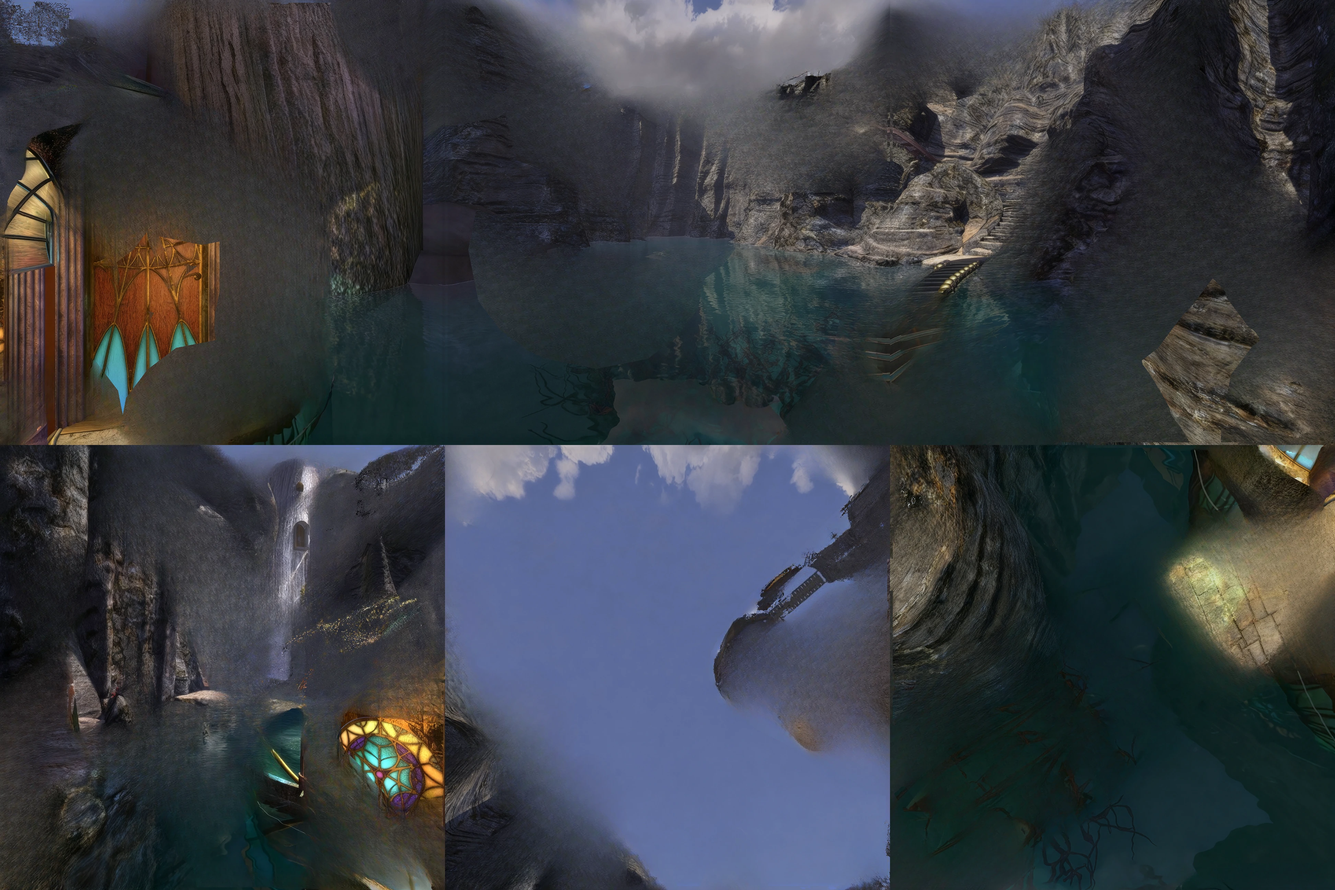
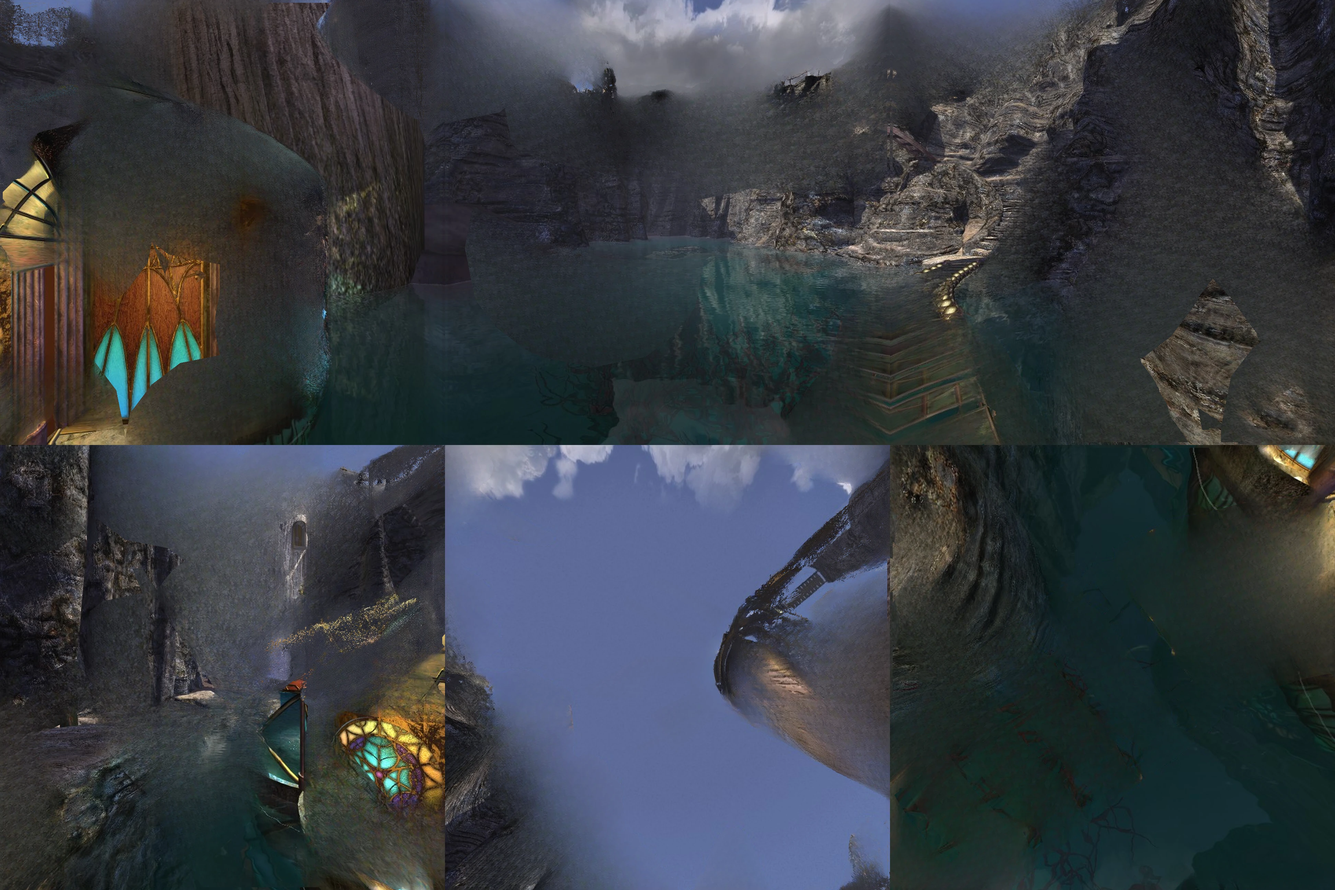
J'nanin's Layered version is built from the captured faces, not the AI-upscaled 6K ones, and the lamp fix is limited to a lamp's glow. Only pixels as bright as a lamp's glow that read far behind its nearer part take its depth: filling every lit thing pulled J'nanin's hut forward, and SegFormer's str
Claude-Session: https://claude.ai/code/session_01PGTZsQJKeQ77ippduWGzGV

diff --git a/cube/myst3/colmap/sharpen_depth.py b/cube/myst3/colmap/sharpen_depth.py
@@ -70,9 +70,10 @@ def light_fill(img, q, seg, seg_proc):
     """Lamps and lights at the depth of what they hang from. Depth Anything
     reads a glowing glass as far off, as light sources often are, so MASS 84's
     lantern stayed with the sky while its dark cap moved with the post.
-    SegFormer (ADE20K) finds lamps, lights, chandeliers and sconces; each
-    piece takes the nearer end (90th percentile of r_far / r) of the solid
-    things in a ring round it, where that is nearer than its own."""
+    SegFormer (ADE20K) finds lamps, lights, chandeliers and sconces; within
+    each under 4% of the face, pixels as bright as its glow (over 0.8 of its
+    99th percentile of lightness) whose r_far / r is under 0.6 of the light's
+    nearer part (its 90th percentile) take that value."""
     import cv2
     import torch
     ids = [int(i) for i, l in seg.config.id2label.items() if any(w in l for w in LIGHTS)]
@@ -83,17 +84,30 @@ def light_fill(img, q, seg, seg_proc):
     lamp = np.isin(lab, ids)
     if not lamp.any():
         return q, 0
-    lamp = cv2.dilate(lamp.astype(np.uint8), np.ones((5, 5), np.uint8)) > 0
     n, comp = cv2.connectedComponents(lamp.astype(np.uint8), connectivity=8)
+    rgb = np.asarray(img.convert('RGB'), dtype=np.float32)
+    lum = 0.299 * rgb[..., 0] + 0.587 * rgb[..., 1] + 0.114 * rgb[..., 2]
     out, filled = q.copy(), 0
     for c in range(1, n):
         m = comp == c
-        ring = (cv2.dilate(m.astype(np.uint8), np.ones((31, 31), np.uint8)) > 0) & ~m & (q >= 1)
-        if ring.sum() < 20:
+        # Lamps are small: a large lit area (J'nanin's hut, whose windows and
+        # roof glow) is left alone, and the light's own pixels are used as
+        # SegFormer gives them, since grown by a few px they took in the cliff
+        # beside the roof and pulled it forward in white specks.
+        if m.sum() < 20 or m.sum() > 0.04 * m.size:
             continue
-        qf = np.percentile(q[ring], 90)
-        upd = m & (out < qf)
-        out[upd] = qf; filled += int(upd.sum())
+        # Within the light itself: pixels reading far behind its nearer part
+        # (MASS 84's lantern: the cap at r_far/r 2.7, a quarter of the glowing
+        # glass at 1, the sky) take that part's depth. Compared with a ring
+        # round it instead, the lantern hung against the sky passed for
+        # nothing wrong, and J'nanin's lit windows were pulled forward.
+        qn = np.percentile(q[m], 90)
+        # and only the glow: SegFormer's streetlight is the whole post, and
+        # the sky between it and the rails reads far too (pulled forward, it
+        # broke MASS 84's overhead rails into dashes); the glass is the
+        # brightest thing in the piece.
+        upd = m & (q < 0.6 * qn) & (lum > 0.8 * np.percentile(lum[m], 99))
+        out[upd] = qn; filled += int(upd.sum())
     return out, filled
 
 

diff --git a/cube/README.md b/cube/README.md
@@ -414,10 +414,16 @@ outline took in some of the far side and the rim bent back in a
 vertex-spaced pattern as the eye moved, a wiggle along every thin thing. A
 near object's own outermost pixel (two at 1280) is cut too where it borders
 a hole (`--rim`): those pixels blend the object with what was behind it and
-showed as a pale torn fringe over a different backdrop. Lamps and lights
-(SegFormer's lamp, light, chandelier and sconce) take the depth of what they
-hang from in `sharpen_depth.py`: Depth Anything read MASS 84's glowing lantern
-as far off, and it stayed with the sky while its cap moved. MASS 84's
+showed as a pale torn fringe over a different backdrop. In `sharpen_depth.py`
+the glow of a lamp takes the depth of the lamp: Depth Anything read MASS 84's
+lantern glass as sky, and it stayed behind while its cap moved. Within each of
+SegFormer's lamps and lights under 4% of the face, pixels as bright as its
+glow that read under 0.6 of its nearer part's r_far / r take that part's
+value. Each limit came from a failure: J'nanin's hut, lit windows and all, was
+pulled forward in flat blobs when every lit thing was filled from the ring
+round it; and SegFormer's streetlight is the whole post, so without the
+brightness test the sky between the post and the rails came forward and
+broke MASS 84's overhead rails into dashes. MASS 84's
 backdrop now comes from the dense run with the movie frames and from the 20
 nearest nodes seen within 45° (11-18% of its side faces, against 2-11%): the
 pier and its rails carry on behind the building where LaMa had painted sky. Moving the measured

diff --git a/cube/myst3/README.md b/cube/myst3/README.md
@@ -748,7 +748,8 @@ the sky face, but 39%, 80% and 235% on faces 1, 5 and 3. The maps' shapes are
 Depth Anything's and look right (the hut near, the cliffs far); on the floor a
 few spots of water reflecting the sky are taken for sky. Report:
 `colmap/LEIS/leis77_depth.json`. The site now has J'nanin's depth and a
-*Layered* version built as ENSI 16's, from the 6K faces at 1280; the model's
+*Layered* version built as ENSI 16's, from the 640 px captures enlarged to
+1280 (the site's 6K faces are AI upscales and are not used as input); the model's
 neighbours supply 0-9% of its backdrop. `node_stereo.py` read node numbers
 as integers too, and now takes them as written.
 
